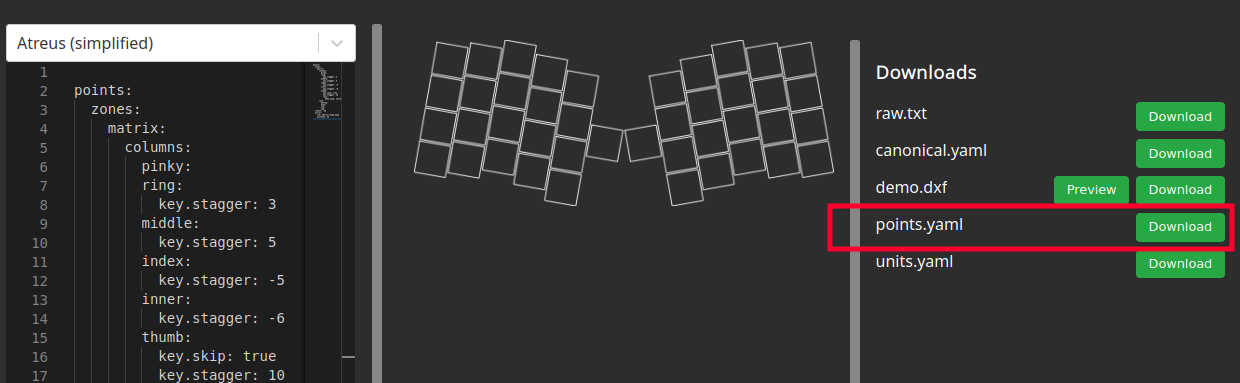
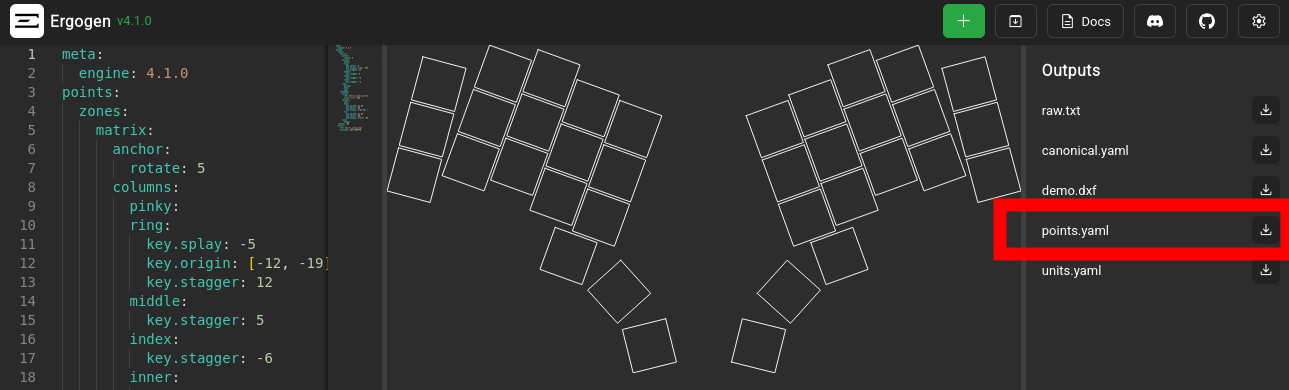
Update ergogen instructions

diff --git a/README.md b/README.md
@@ -175,7 +175,11 @@ To use this tool in this way, it needs to be installed following [plugin install
   <details>
   <summary>ergogen details <i>(click to expand)</i></summary>
 
-    - open your design in https://ergogen.cache.works/ and download `points.yaml`
+    - open your design in https://ergogen.xyz/ and enable `Debug` in options
+
+      ![ergogen-enbled-debug](resources/ergogen-enable-debug.png)
+
+    - download `points.yaml`
 
       ![ergogen-points](resources/ergogen-points.png)
 
